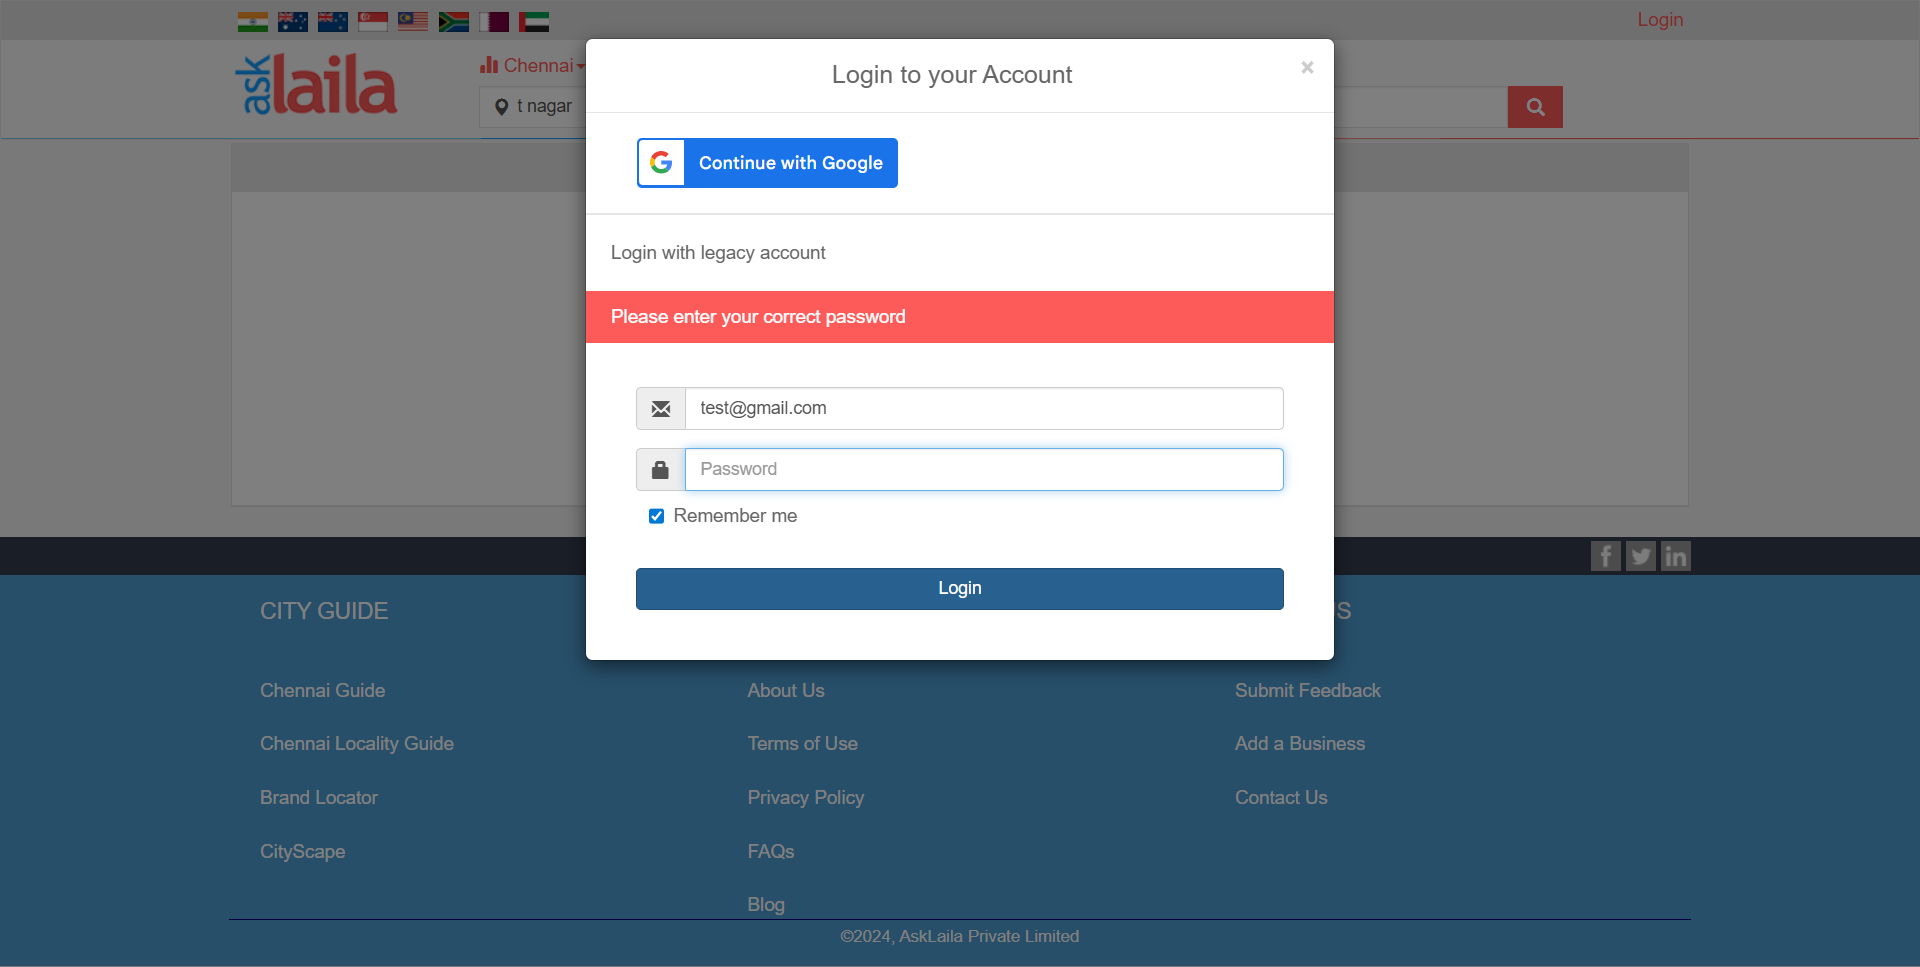
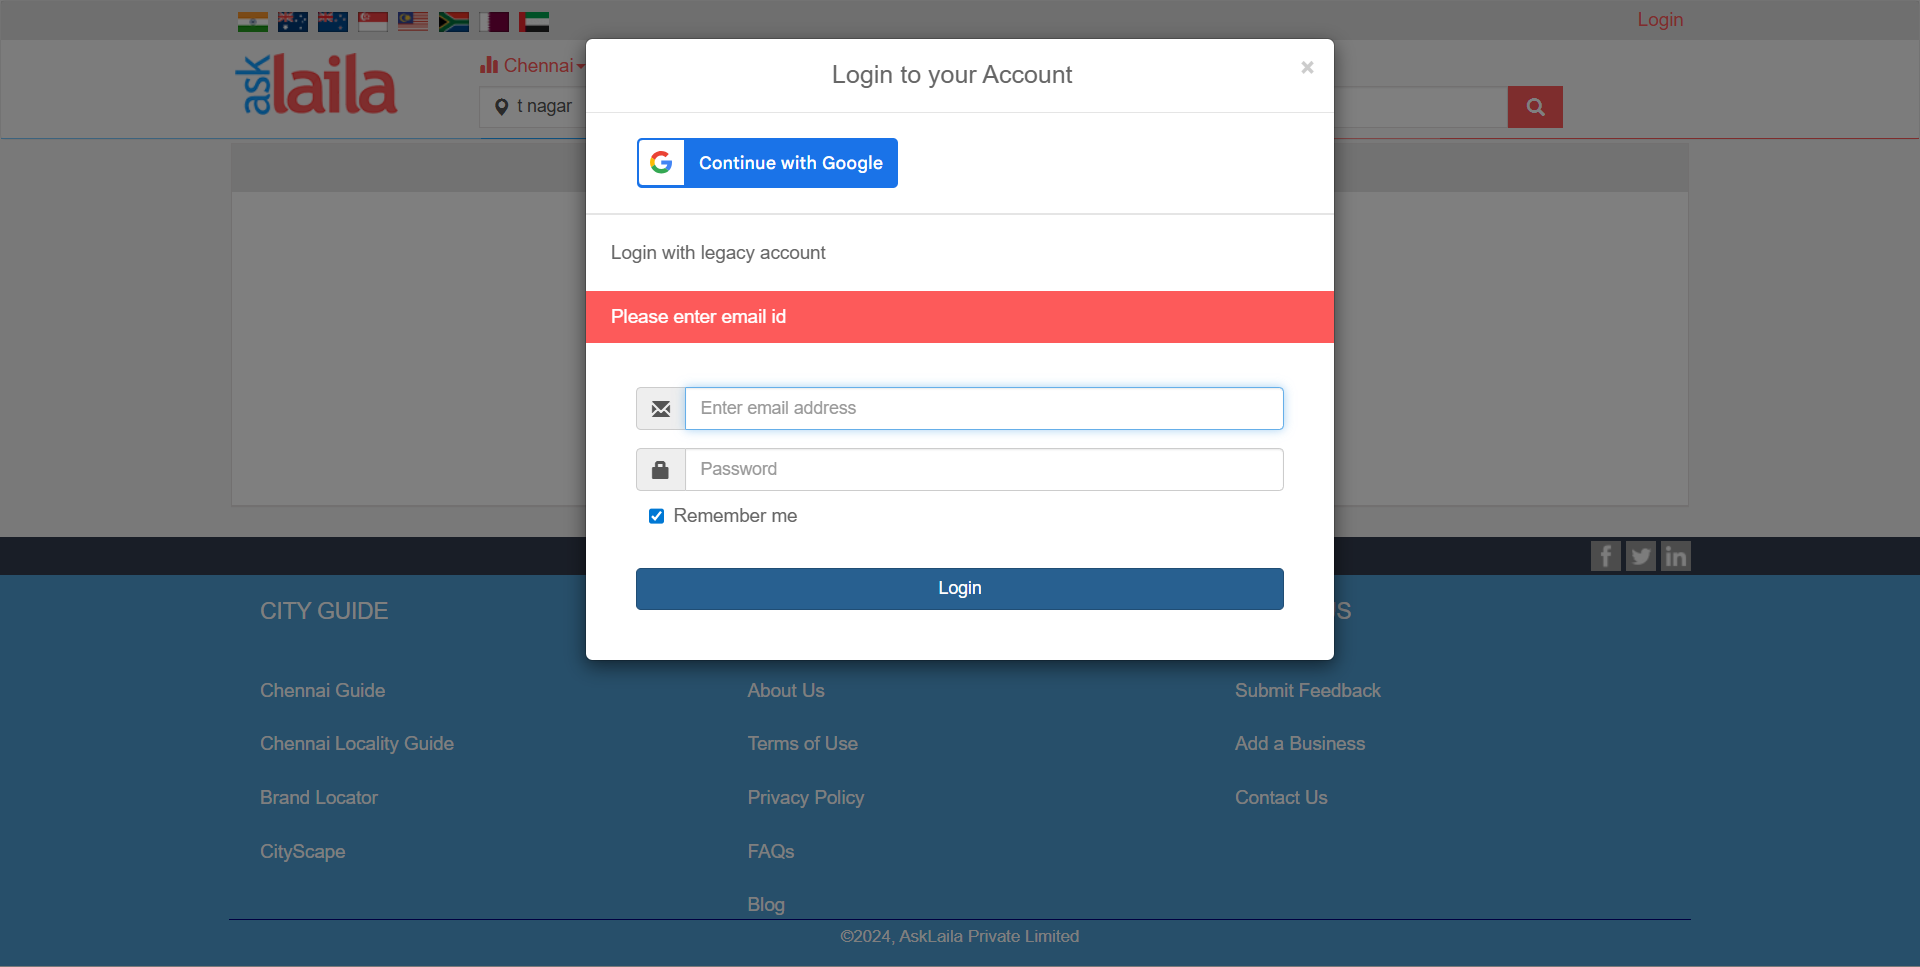
Final Update

Changed region(s): [[0.3438, 0.3723, 0.6875, 0.4654], [0.375, 0.4964, 0.6562, 0.5274], [0.375, 0.3102, 0.4688, 0.3413]]

diff --git a/src/main/java/Utils/ScreenshotUtils.java b/src/main/java/Utils/ScreenshotUtils.java
@@ -8,7 +8,7 @@ import java.io.File;
 import java.nio.file.Files;
 import java.nio.file.Path;
 
-public class ScreenshotUtils {
+/*public class ScreenshotUtils {
 
     public static void takeScreenshot(WebDriver driver, String outputPath) {
         try {
@@ -19,6 +19,38 @@ public class ScreenshotUtils {
             Files.createDirectories(dest.getParent());
 
             Files.copy(src.toPath(), dest);
+            System.out.println("Screenshot saved at: " + dest);
+
+        } catch (Exception e) {
+            System.out.println("Screenshot Error: " + e.getMessage());
+        }
+    }
+} */
+
+import java.nio.file.StandardCopyOption; // <-- add this import
+
+
+public class ScreenshotUtils {
+
+    public static void takeScreenshot(WebDriver driver, String outputPath) {
+        try {
+            if (driver == null) {
+                System.out.println("Screenshot Error: WebDriver is null.");
+                return;
+            }
+
+            File src = ((TakesScreenshot) driver).getScreenshotAs(OutputType.FILE);
+            Path dest = Path.of(outputPath).toAbsolutePath();
+
+            // Create parent folder if missing (only if there is a parent)
+            Path parent = dest.getParent();
+            if (parent != null) {
+                Files.createDirectories(parent);
+            }
+
+            // Overwrite existing file if present
+            Files.copy(src.toPath(), dest, StandardCopyOption.REPLACE_EXISTING);
+
             System.out.println("Screenshot saved at: " + dest);
 
         } catch (Exception e) {

diff --git a/src/test/java/Tests/AskLailaTests.java b/src/test/java/Tests/AskLailaTests.java
@@ -111,7 +111,7 @@ public class AskLailaTests extends BaseTest {
 
         // 2) Valid email, no password -> site err div + screenshot
         login.clearEmail();
-        login.setEmail("test@gmail.com");
+        // login.setEmail("test@gmail.com");
         login.clickLogin();
         Thread.sleep(3000);
         String err2 = login.getError();
@@ -120,7 +120,7 @@ public class AskLailaTests extends BaseTest {
 
         // 3) Email + invalid password -> site err div + screenshot
         login.clearEmail();
-        //login.setEmail("test@gmail.com");
+        login.setEmail("test@gmail.com");
         login.setPassword("wrongpass");
         login.clickLogin();
         Thread.sleep(3000);
@@ -157,7 +157,7 @@ public class AskLailaTests extends BaseTest {
 
         // Preparation for Excel
         List<String[]> excelData = new ArrayList<>();
-        String excelPath = System.getProperty("user.dir") +"\\AskLaila_QA\\src\\main\\java\\Utils\\Gymdata.xlsx";
+        String excelPath = "src/main/java/Utils/Gymdata.xlsx";
         Gym_ExcelUtils excel = new Gym_ExcelUtils(excelPath);
 
         for (String record : gymDataList) {

diff --git a/src/main/java/Base/BaseTest.java b/src/main/java/Base/BaseTest.java
@@ -10,7 +10,7 @@ import java.time.Duration;
 
 public class BaseTest {
 
-    protected  WebDriver driver;
+    public WebDriver driver;
     protected  WebDriverWait wait ;
     protected String browserName;
 
@@ -26,9 +26,9 @@ public class BaseTest {
 
     }
 
-    /*@AfterMethod
+    @AfterSuite
     public void tearDown(){
 
         driver.quit();
-    } */
+    }
 }
